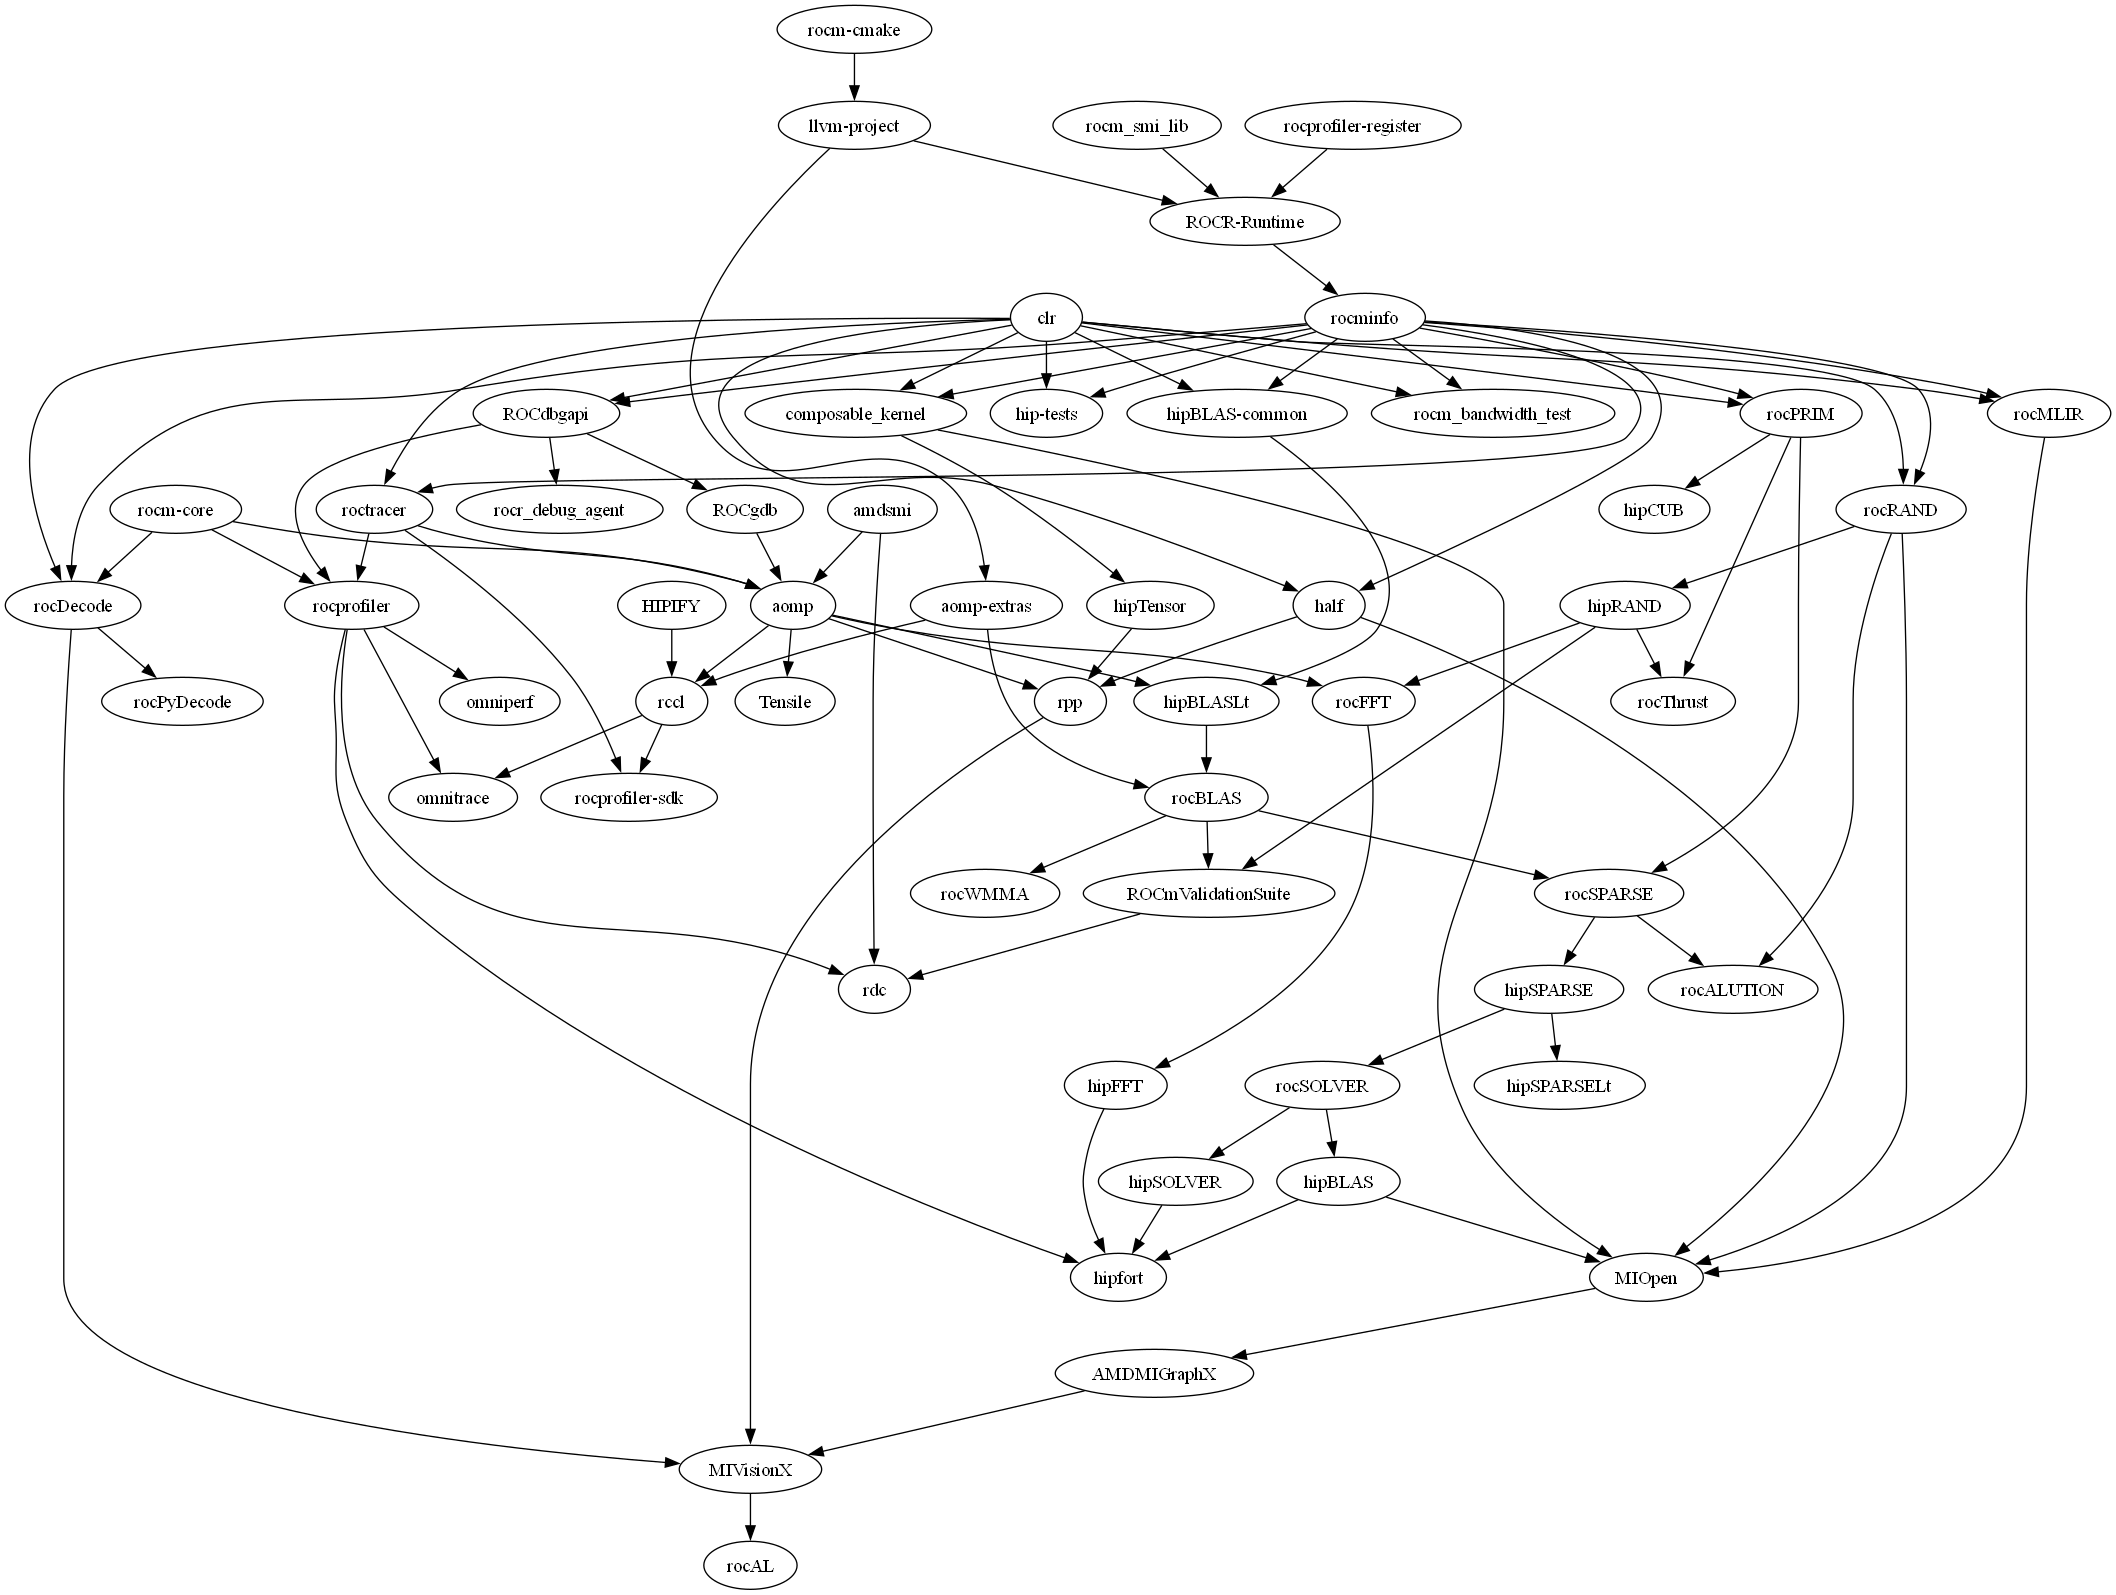
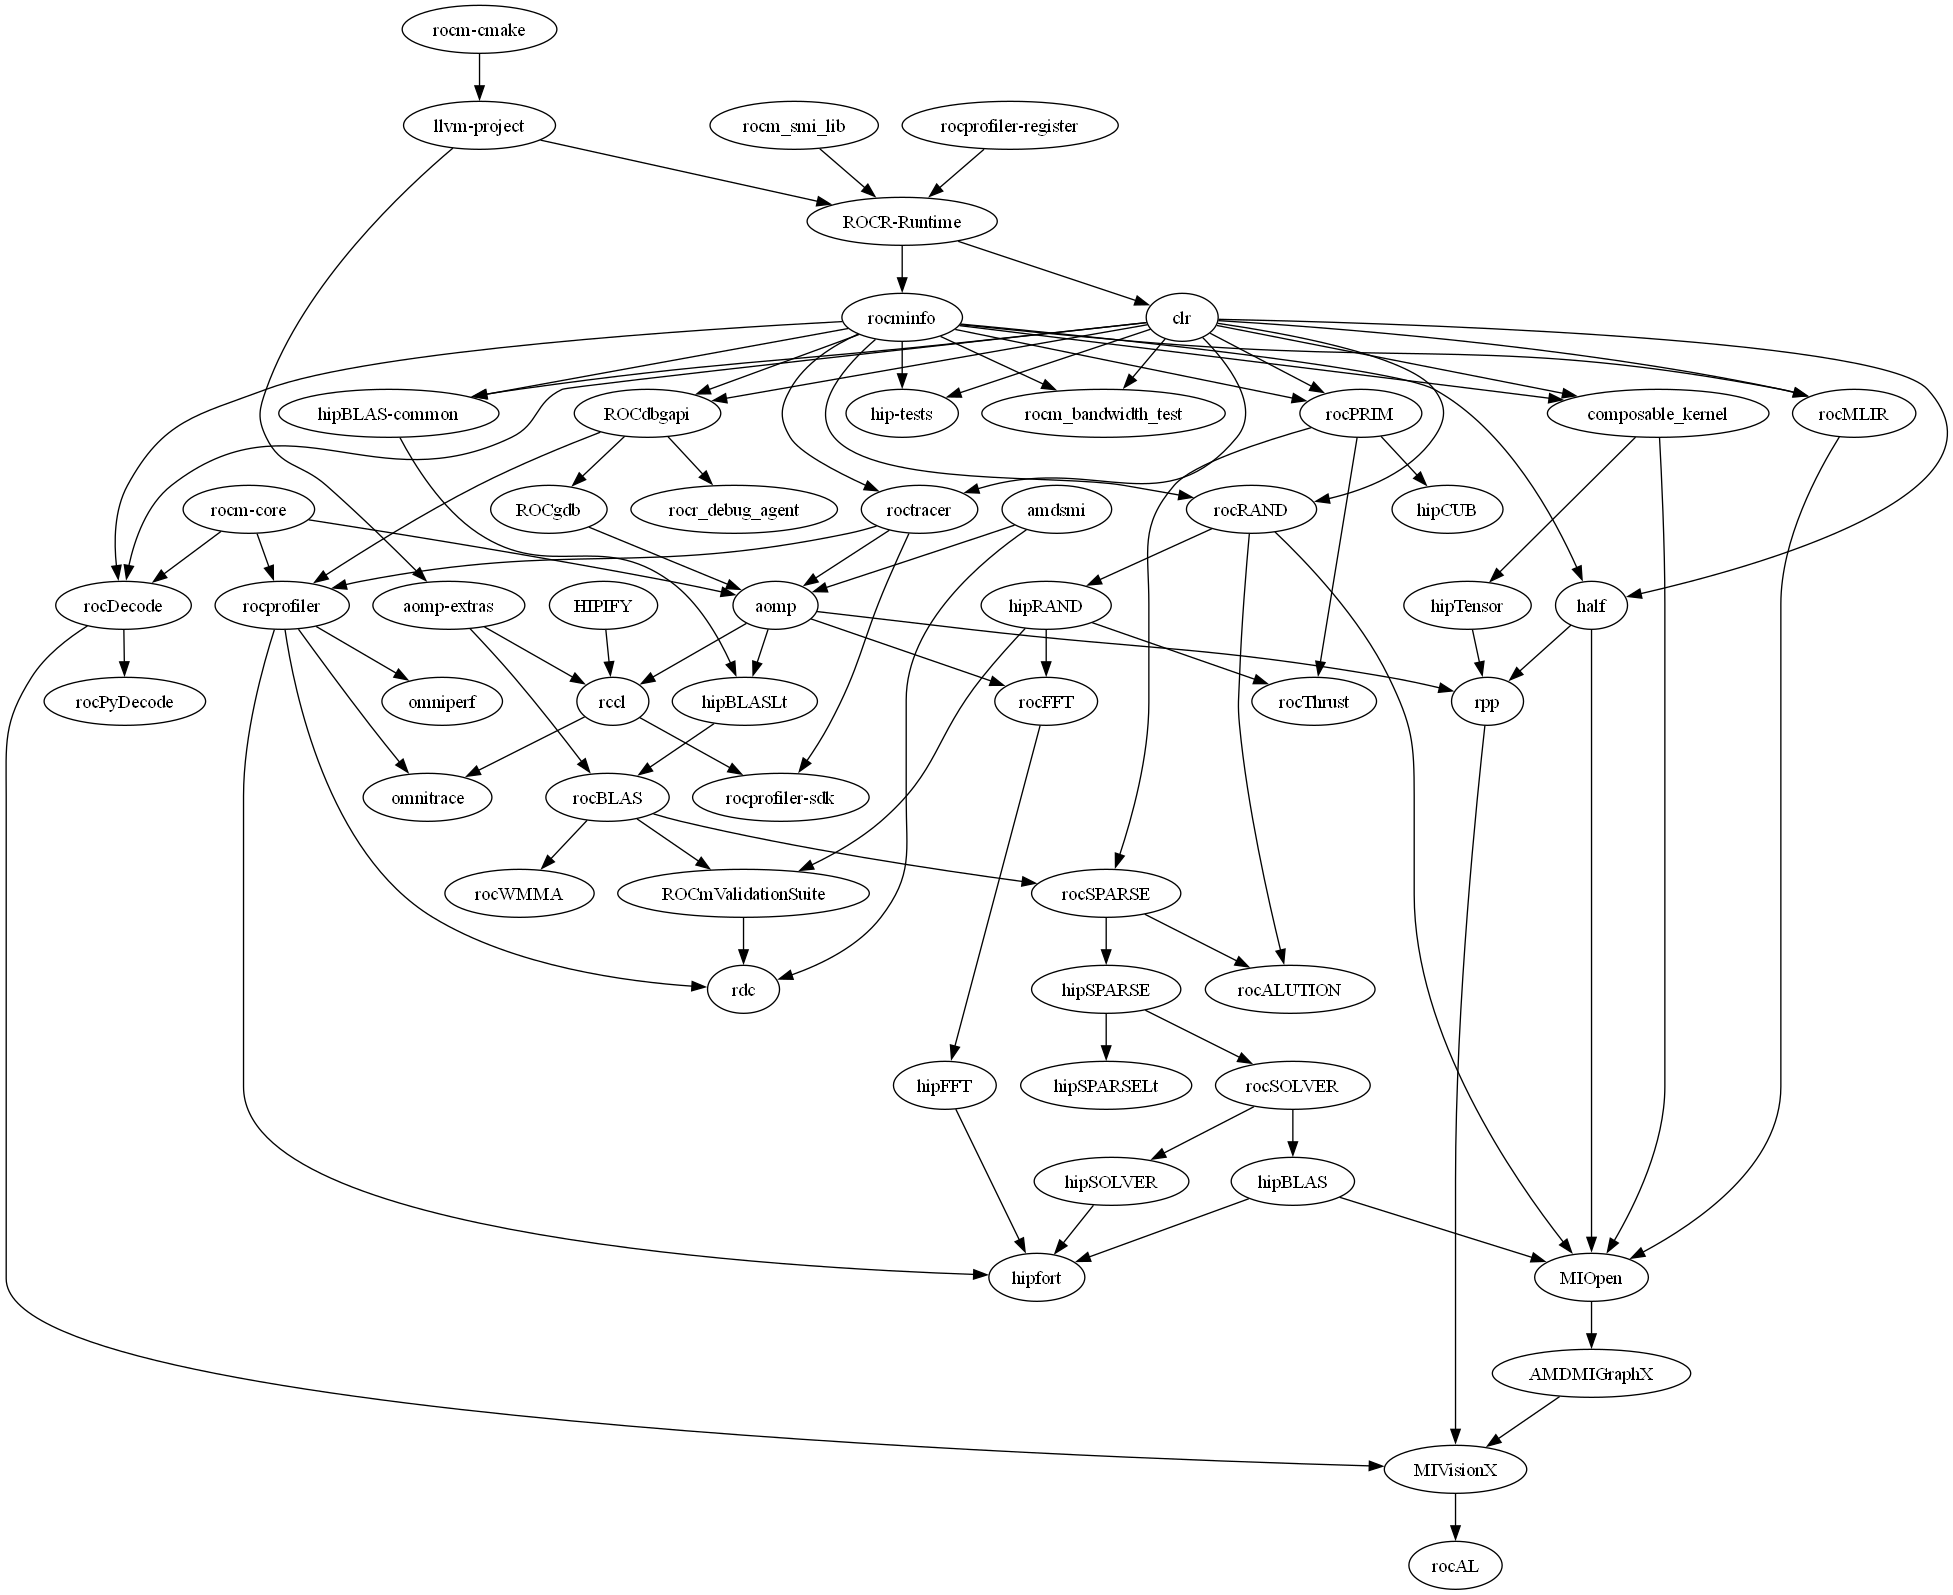
Map clr/HIP to same node in tree.

diff --git a/.azuredevops/scripts/dependencyGraph.py b/.azuredevops/scripts/dependencyGraph.py
@@ -16,34 +16,37 @@ def extract_dependencies(exclude_nodes=[]):
     dependencies = {}
     debug_print("Extracting dependencies from YAML files...")
 
-    # Get the directory of the current script
+    # Define a mapping of specific filenames to component names
+    component_name_mapping = {
+        'HIP.yml': 'clr',  # Remap HIP.yml to clr in graph
+    }
+
     script_directory = os.path.dirname(os.path.abspath(__file__))
-    yaml_directory = os.path.join(script_directory, '..', 'components')  # Adjust based on your structure
+    yaml_directory = os.path.join(script_directory, '..', 'components')
 
     for filename in os.listdir(yaml_directory):
         if filename.endswith(".yaml") or filename.endswith(".yml"):
             debug_print(f"Processing file: {filename}")
-            with open(os.path.join(yaml_directory, filename), 'r') as file:
-                data = yaml.safe_load(file)
-                parameters = data.get('parameters', [])
+            try:
+                with open(os.path.join(yaml_directory, filename), 'r') as file:
+                    data = yaml.safe_load(file) or {}
+                    parameters = data.get('parameters', [])
 
-                # Find rocmDependencies within parameters
-                rocm_dependencies = next((param['default'] for param in parameters if param['name'] == 'rocmDependencies'), [])
-                test_dependencies = next((param['default'] for param in parameters if param['name'] == 'rocmTestDependencies'), [])
+                    # Check for both 'rocmDependencies' and 'rocmDependenciesAMD'
+                    rocm_dependencies = next((param['default'] for param in parameters if param['name'] == 'rocmDependencies' or param['name'] == 'rocmDependenciesAMD'), [])
+                    test_dependencies = next((param['default'] for param in parameters if param['name'] == 'rocmTestDependencies'), [])
 
-                # Combine and remove duplicates using set
-                unique_dependencies = list(set(rocm_dependencies + test_dependencies))
+                    unique_dependencies = list(set(rocm_dependencies + test_dependencies))
+                    unique_dependencies = [dep for dep in unique_dependencies if dep not in exclude_nodes]
 
-                # Exclude specified nodes
-                unique_dependencies = [dep for dep in unique_dependencies if dep not in exclude_nodes]
-
-                # Store dependencies with filename without extension
-                name_without_ext = os.path.splitext(filename)[0]
-                dependencies[name_without_ext] = {
-                    'dependencies': unique_dependencies
-                }
-
-                debug_print(f"Found unique dependencies: {unique_dependencies}")
+                    # Use the mapped component name if it exists
+                    component_name = component_name_mapping.get(filename, os.path.splitext(filename)[0])
+                    dependencies[component_name] = {
+                        'dependencies': unique_dependencies
+                    }
+                    debug_print(f"Found unique dependencies for {component_name}: {unique_dependencies}")
+            except Exception as e:
+                print(f"Error processing {filename}: {e}")
 
     return dependencies
 